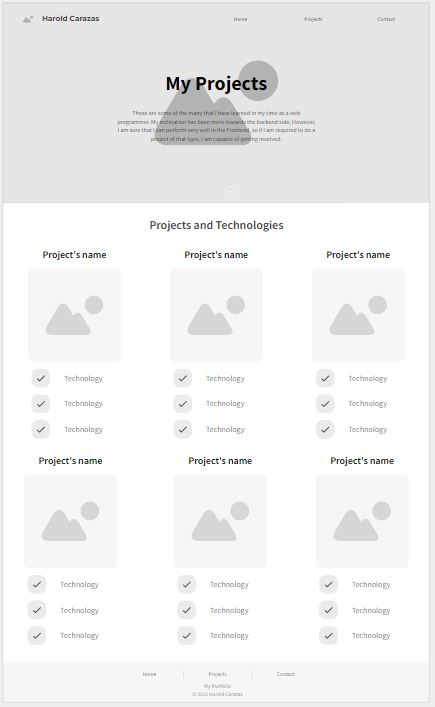
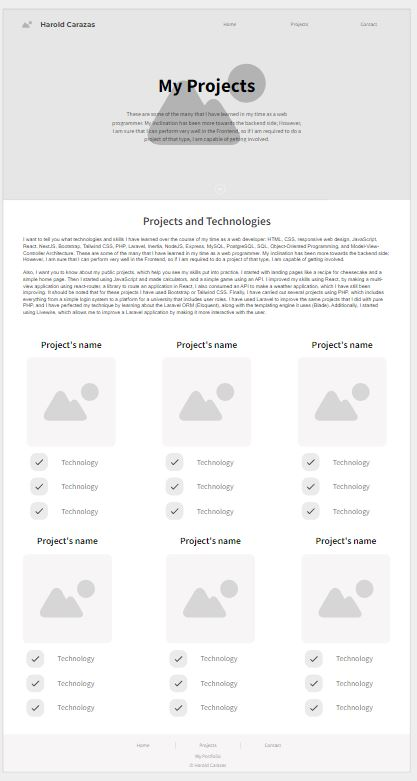
contact page and site plan finished

diff --git a/portfolio/site-plan.html b/portfolio/site-plan.html
@@ -166,9 +166,13 @@
             Also, I want you to know about my public projects, which help you see my skills put into practice. I started with landing pages like a recipe for cheesecake and a simple home page. Then I started using JavaScript and made calculators, and a simple game using an API. I improved my skills using React, by making a multi-view application using react-router, a library to route an application in React, I also consumed an API to make a weather application, which I have still been improving. It should be noted that for these projects I have used Bootstrap or Tailwind CSS. Finally, I have carried out several projects using PHP, which includes everything from a simple login system to a platform for a university that includes user roles. I have used Laravel to improve the same projects that I did with pure PHP, and I have perfected my technique by learning about the Laravel ORM (Eloquent), along with the templating engine it uses (Blade). Additionally, I started using Livewire, which allows me to improve a Laravel application by making it more interactive with the user.
         </p>
         <p>Images for the Page 2: Projects</p>
+        <img src="./images/page2/hero.jpg" alt="image for page">
+        <img src="./images/page2/project_quiz.jpg" alt="image for page">
         <img src="./images/page2/project_calculator.jpg" alt="image for page">
         <img src="./images/page2/project_pokedex.jpg" alt="image for page">
-        <img src="./images/page2/project_quiz.jpg" alt="image for page">
+        <img src="./images/page2/project_todo.jpg" alt="image for page">
+        <img src="./images/page2/project_windbnb.jpg" alt="image for page">
+        <img src="./images/page2/project_devjobs.jpg" alt="image for page">
 
         </ul>
         <h3>Contact me</h3>
@@ -178,9 +182,9 @@
             I would be happy to have a conversation about how I can support your projects.
         </p>
         <p>Images for the Page 3: Contact me</p>
-        <img src="./images/page3/harold.jpg" alt="image for page3">
-        <img src="./images/page3/gmail.jpg" alt="image for page3">
         <img src="./images/page3/linkedin.jpg" alt="image for page3">
+        <img src="./images/page3/whatsapp.jpg" alt="image for page3">
+        <img src="./images/page3/gmail.jpg" alt="image for page3">
 
         </ul>
         <hr>

diff --git a/portfolio/styles/styles.css b/portfolio/styles/styles.css
@@ -716,4 +716,77 @@ main {
     min-height: 500px;
     justify-content: center;
   }
+
+  /*-------- Contacts page --------*/
+  #footerContact {
+    height: 160px;
+  }
+
+  #mainContact {
+    width: 1110px;
+    margin: auto;
+    min-height: calc(100vh - 160px);
+    grid-template-columns: 1fr 1fr;
+    grid-template-rows: 1fr;
+    padding: 90px 0 0;
+    justify-items: center;
+    gap: 5rem;
+  }
+
+  #imgsContainer {
+    grid-row: 1/2;
+    height: 100%;
+    width: 100%;
+    grid-template-rows: repeat(4, 120px);
+    grid-template-columns: repeat(4, 120px);
+    justify-content: center;
+    gap: 0;
+    align-content: center;
+  }
+
+  #imgsContainer > img {
+    height: 100%;
+    width: 100%;
+  }
+
+  #imgsContainer > img:nth-child(1) {
+    grid-column: 1/3;
+    grid-row: 1/3;
+  }
+
+  #imgsContainer > img:nth-child(2) {
+    grid-column: 2/4;
+    grid-row: 2/4;
+    z-index: 30;
+  }
+
+  #imgsContainer > img:nth-child(3) {
+    grid-column: 3/5;
+    grid-row: 3/5;
+  }
+
+  #textContainer {
+    display: flex;
+    flex-direction: column;
+    grid-column: 2/3;
+    grid-row: 1/2;
+    width: 80%;
+    align-items: start;
+    gap: 4rem;
+  }
+
+  #text-information > h1 {
+    font-size: 3.5rem;
+    text-align: start;
+  }
+
+  #text-contact {
+    display: flex;
+    width: 100%;
+  }
+
+  #text-contact img {
+    height: 60%;
+    width: 60%;
+  }
 }

diff --git a/portfolio/contact.html b/portfolio/contact.html
@@ -53,7 +53,7 @@
         </div>
       </div>
     </main>
-    <footer>
+    <footer id="footerContact">
       <ul>
         <li><a href="index.html" class="footerLink">Home</a></li>
         <li><a href="projects.html" class="footerLink">Projects</a></li>
